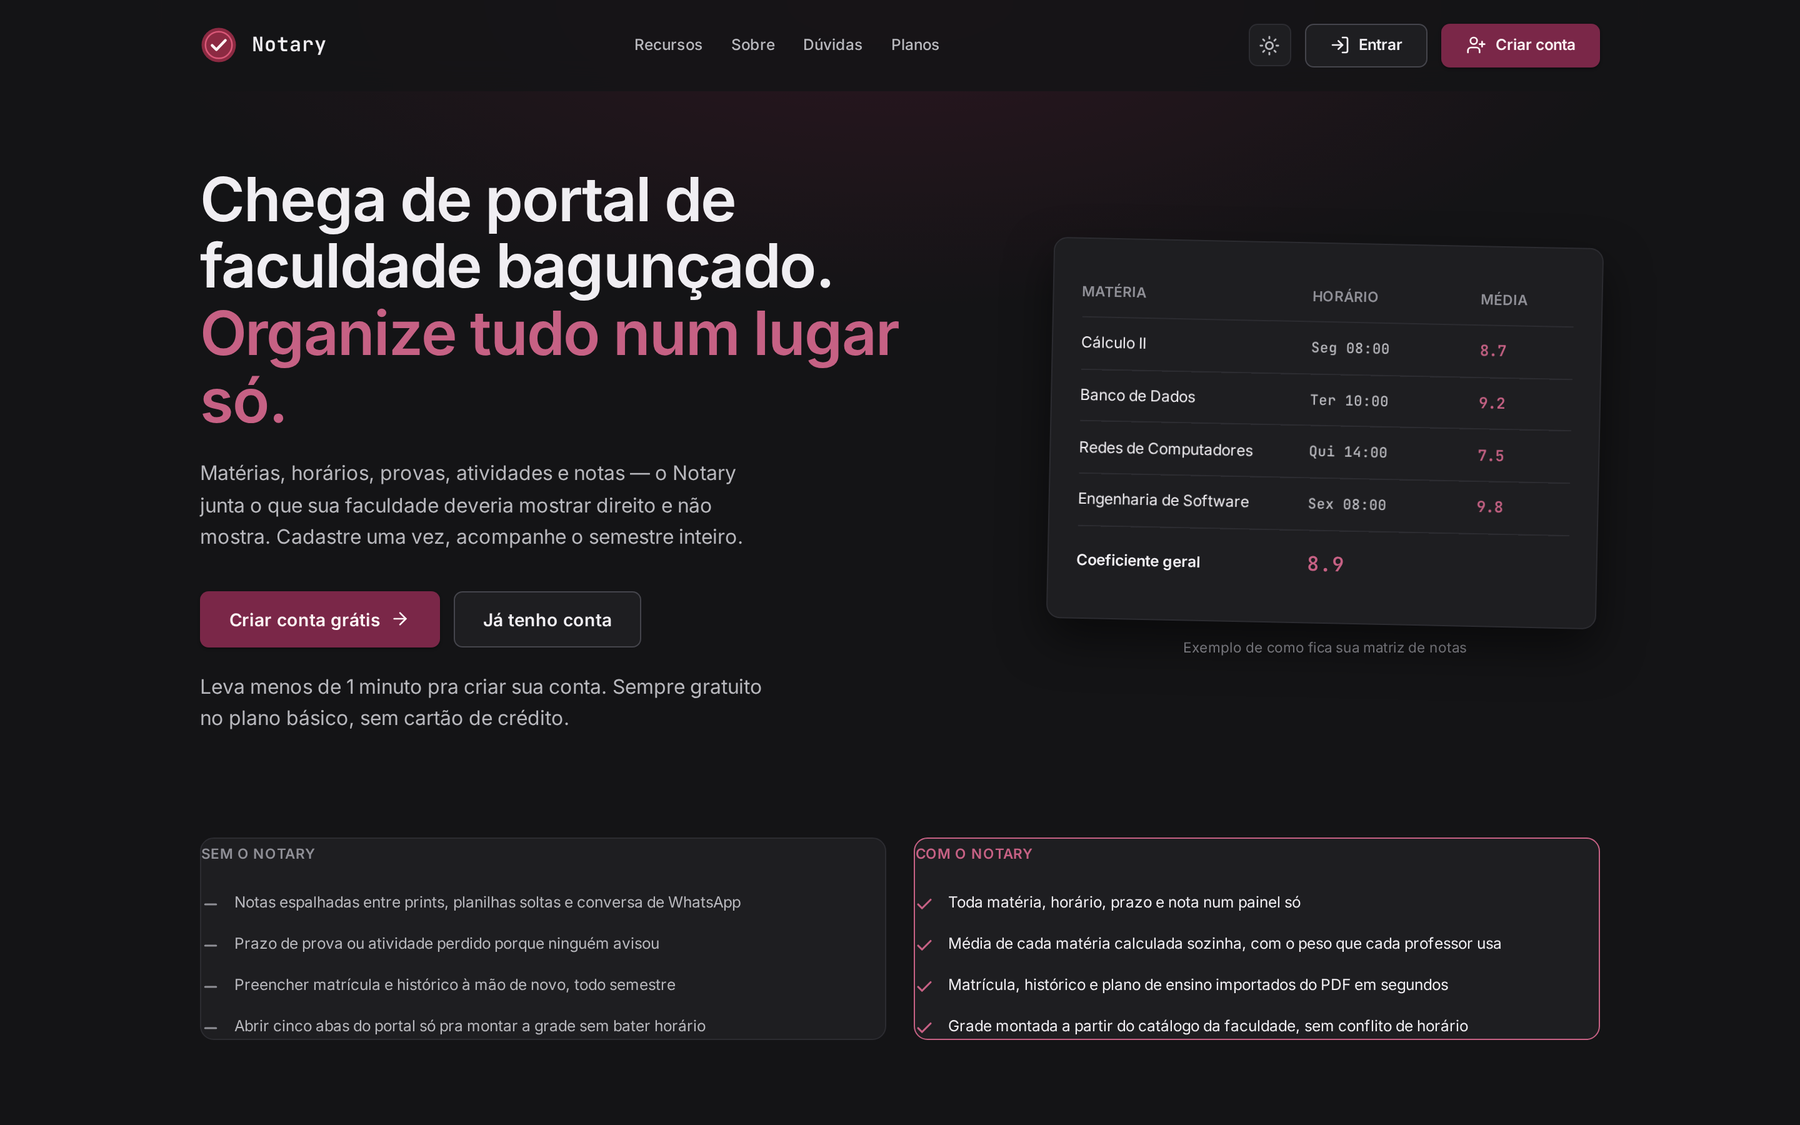
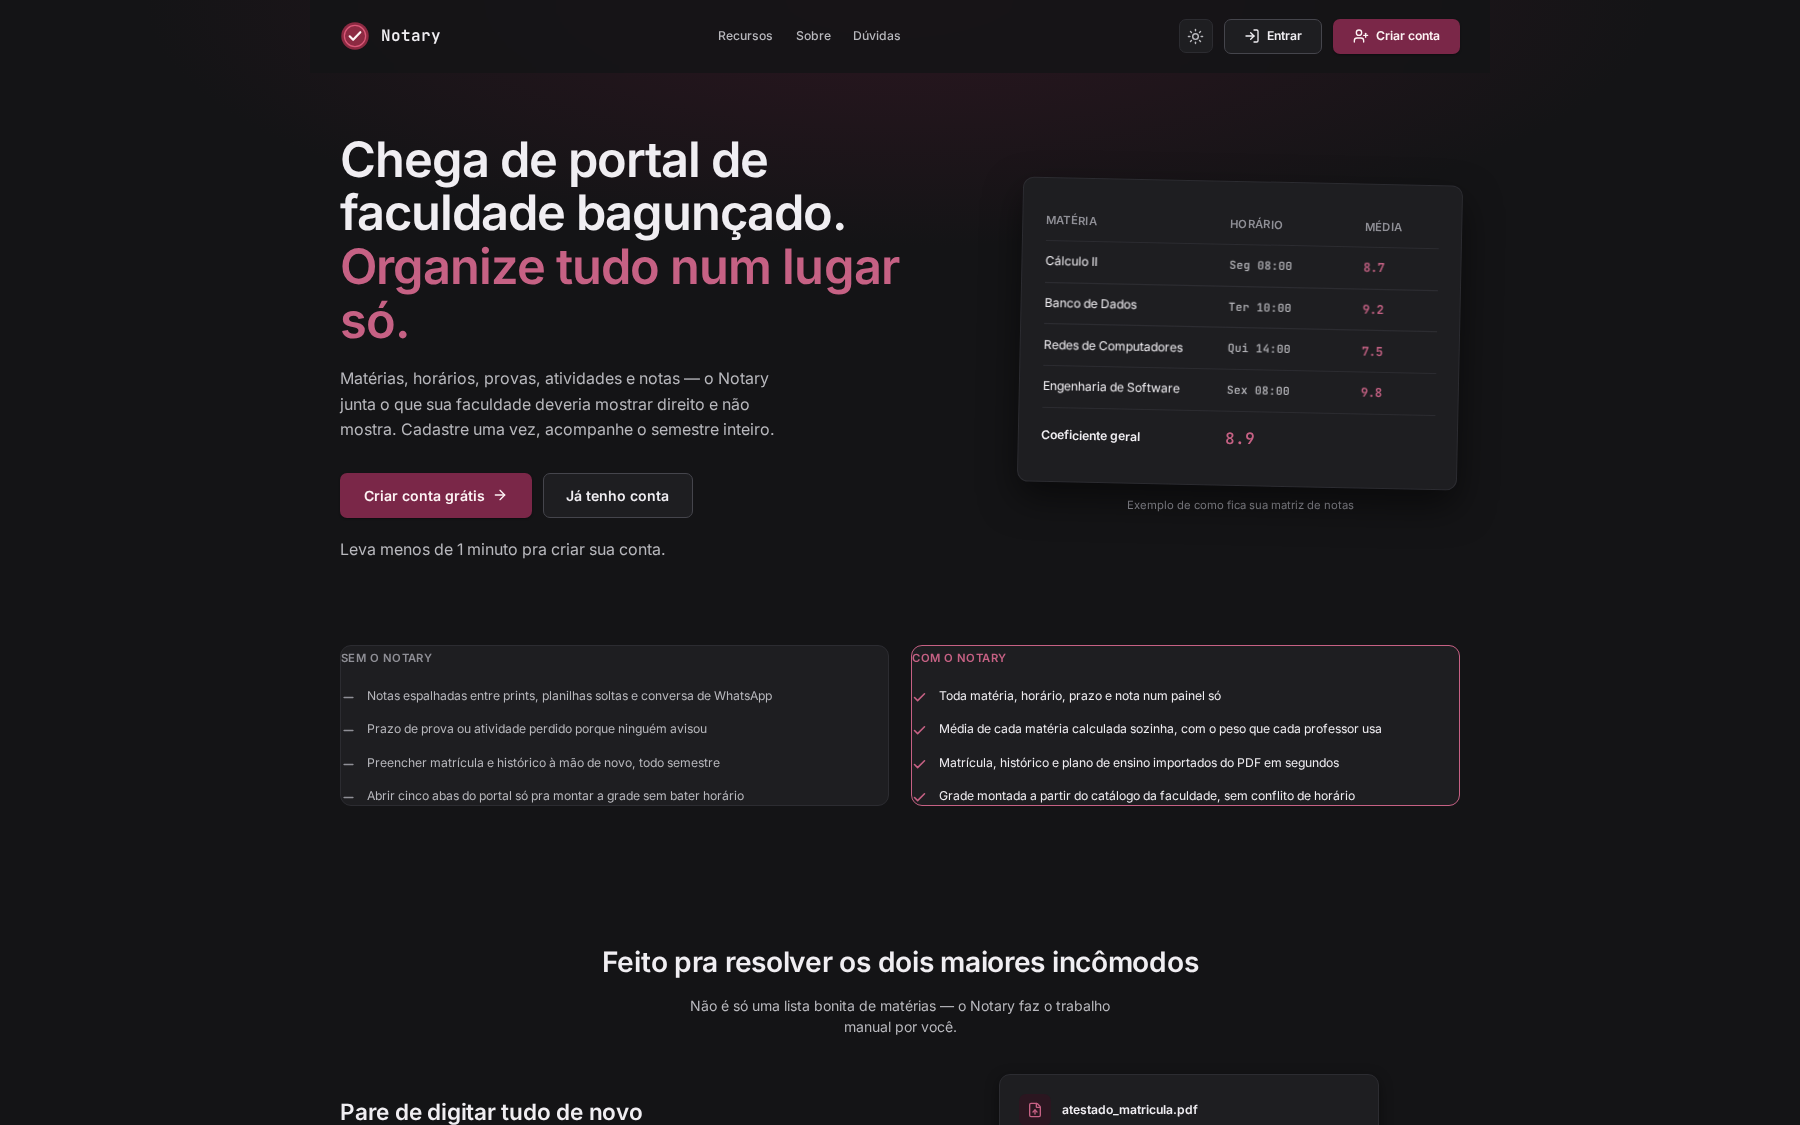
docs: reformula README pra portfólio público e atualiza screenshots
README ganha seção de destaques técnicos (parsing de PDF, importação
genérica de planilha, timer resistente a background throttling, auth
multi-tenant) reordenada pra aparecer antes das instruções de setup,
já que quem lê primeiro geralmente não vai rodar o projeto localmente.
Remove a referência a CLAUDE.md/DESIGN.md (agora só locais, fora do
Git — ver .gitignore) e corrige uma tag `</content>` que tinha vazado
pro final do arquivo numa edição anterior.

Screenshots recapturados porque os antigos mostravam UI já removida
(chip de sequência, item "Planos" no menu).

diff --git a/README.md b/README.md
@@ -70,6 +70,16 @@ Como a faculdade não oferece exportação, os dados podem ser digitados na mão
 </tr>
 </table>
 
+## Destaques técnicos
+
+Pontos do projeto que exigiram mais do que CRUD:
+
+- **Importação de PDF sem backend** — atestado de matrícula, histórico escolar e plano de ensino são parseados 100% no navegador com `pdfjs-dist`. O parser do plano de ensino é o mais complexo: a célula "Aula/Data" fica centralizada verticalmente quando o conteúdo da aula quebra em várias linhas, então o algoritmo agrupa itens de texto em blocos por proximidade vertical (não por "número no início da linha") antes de extrair cada registro — validado contra um PDF real, 36/36 aulas corretas.
+- **Importação de planilha genérica por faculdade** — em vez de fazer parsing hardcoded pro formato de uma faculdade específica, o usuário mapeia cada coluna da própria planilha (com sugestão automática por dicionário de sinônimos) e esse mapeamento fica lembrado por instituição em `localStorage`, então reimportações do semestre seguinte são um clique só.
+- **Timer Pomodoro resistente a background throttling** — em vez de decrementar por `setInterval` (que o Chrome joga pra baixo em abas em segundo plano), a contagem deriva de um timestamp de término (`Date.now()` vs. `phaseEndAt`), então o relógio se autocorrige assim que a aba volta ao foco. Estado persiste em `localStorage` e sobrevive a reload de página inteira.
+- **Autenticação real multi-tenant** — [Better Auth](https://www.better-auth.com/) com email/senha + Google OAuth, sessão em cookie httpOnly, e as 13 tabelas de dados pessoais isoladas por `user_id` no banco (17 tabelas no total, modeladas com Drizzle ORM).
+- **Montador de grade com detecção de conflito** — cruza os horários das turmas escolhidas no catálogo da faculdade e sinaliza sobreposição em tempo real, com filtro por professor/disciplina/turno.
+
 ## Stack
 
 - **Linguagem:** TypeScript em tudo (front e back)
@@ -203,8 +213,6 @@ frontend/src/                 front-end
                                planoDeEnsinoImport.ts
 ```
 
-Modelo de dados completo (17 tabelas) e as decisões de produto por trás de cada feature estão documentados em [`CLAUDE.md`](CLAUDE.md). Direção visual e tokens de tema em [`DESIGN.md`](DESIGN.md).
-
 ## Roadmap
 
 - [x] Exportar dados / notificações
@@ -214,4 +222,3 @@ Modelo de dados completo (17 tabelas) e as decisões de produto por trás de cad
 ---
 
 <p align="center">Projeto pessoal para organizar a própria vida acadêmica.</p>
-</content>
